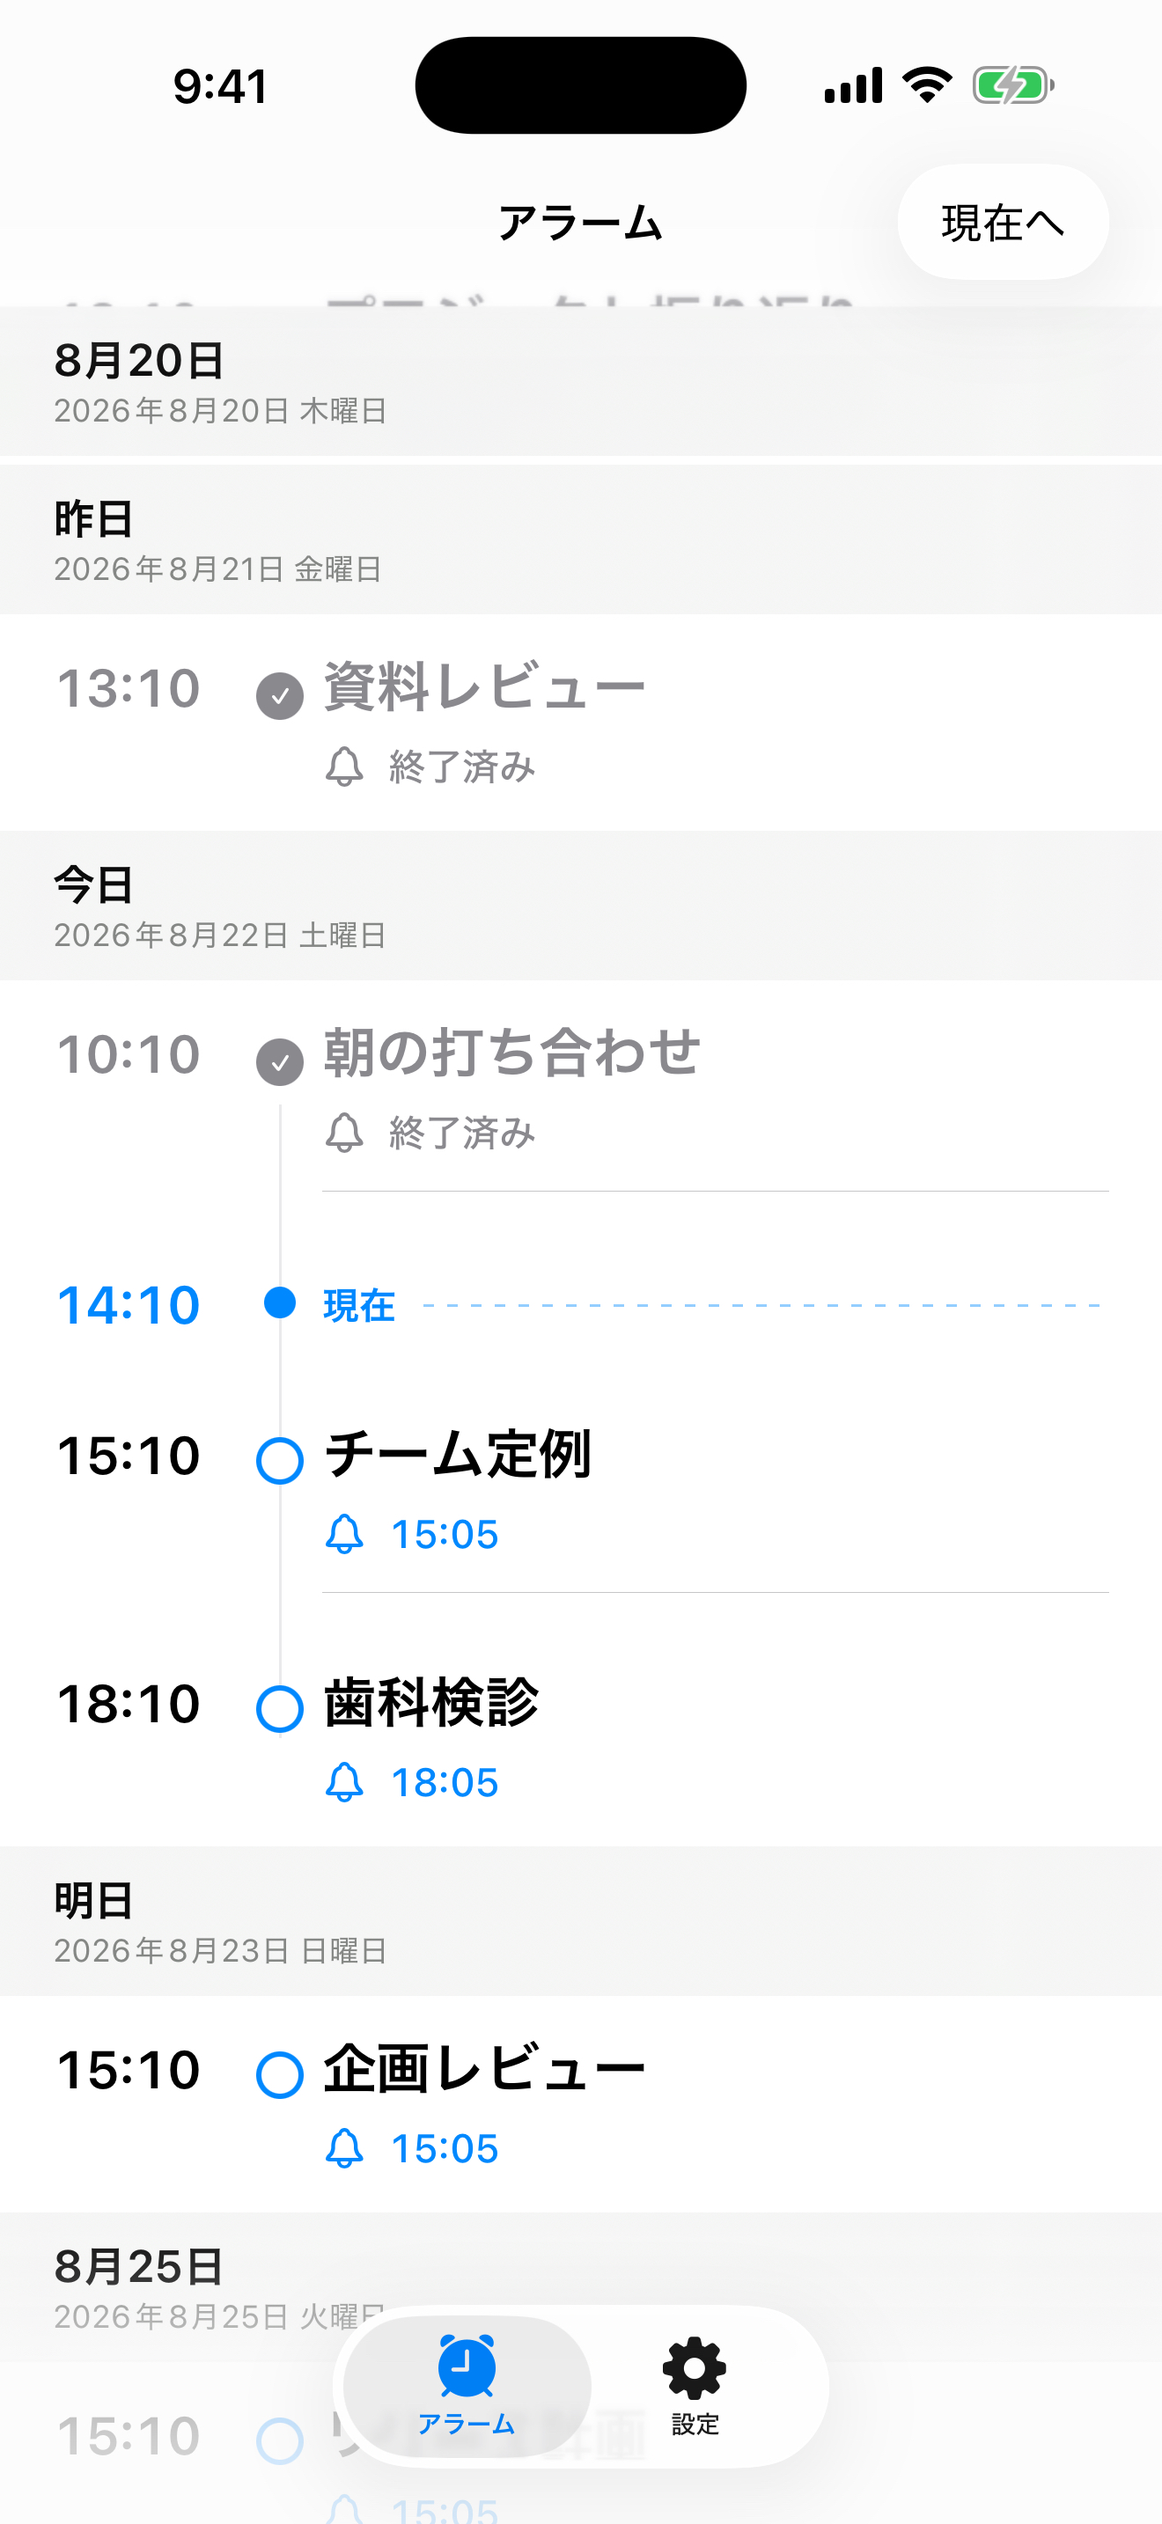
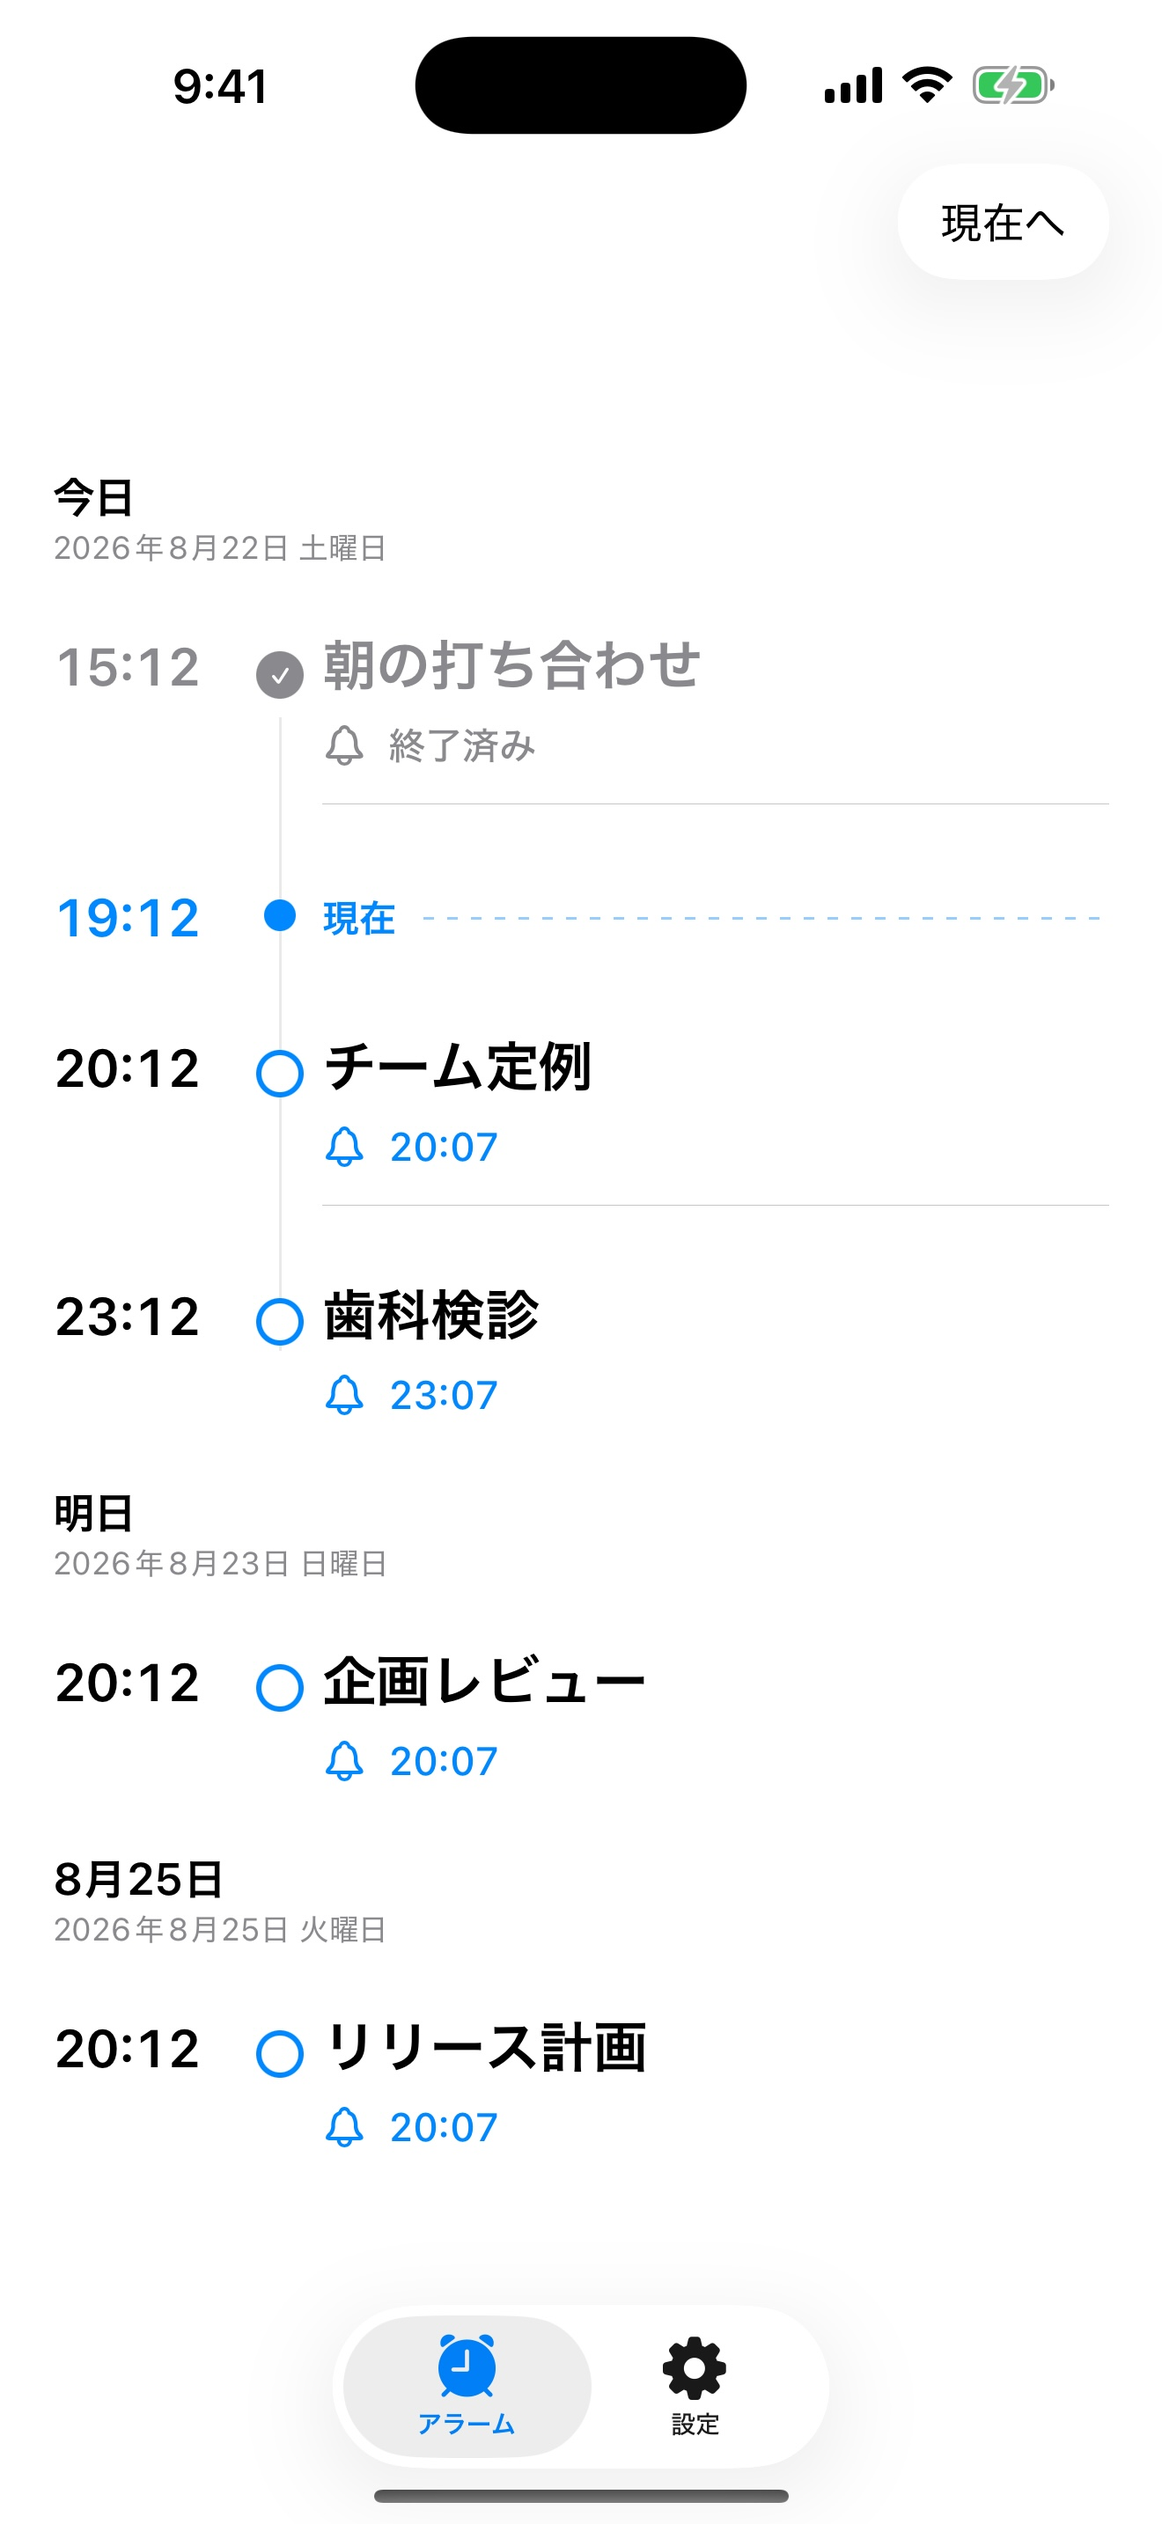
Capture final App Store screenshots

diff --git a/docs/evidence/WU-10/PHASE_B_4_FINAL_SCREENSHOTS.md b/docs/evidence/WU-10/PHASE_B_4_FINAL_SCREENSHOTS.md
@@ -1,0 +1,58 @@
+# WU-10 Phase B.4 — Final App Store Screenshots
+
+Audit date: 2026-08-22.
+
+## Candidate and capture environment
+
+1. Branch: `wu-10-release-gate`.
+2. Accepted UI candidate: `50fc6258384f0ac80cc88661132dbec1a7bca2da`.
+3. Simulator: iPhone 17 Pro Max (`F9006C43-A464-4C67-9B9E-D564B1975BC6`).
+4. Runtime: iOS 26.5.
+5. Language/locale: Japanese / `ja_JP`.
+6. Appearance/text size: Light / standard Large.
+7. Build: one Debug Simulator build from the exact accepted UI candidate. DEBUG-only allowlisted scenarios supplied deterministic presentation data; no debug/test/sample labels are visible.
+
+## Final package
+
+Location: `docs/release/screenshots/final-ja/`. Count: exactly six raw screenshots.
+
+| Order | File | Screen | Dimensions / format | SHA-256 |
+|---|---|---|---|---|
[6 lines of base64/hex data omitted]
+
+`file` and `sips` independently confirmed baseline JPEG, 1320×2868 portrait dimensions, RGB color, three components, and no alpha for all six images. Hash uniqueness confirms there are no duplicate files. Visual inspection confirmed no accidental crop, clipping, Simulator window chrome, marketing decoration, debug artifacts, or empty/awkward composition.
+
+## Visual and privacy audit
+
+- `01` immediately presents the core Today-first alarm timeline, selected Alarm tab, an ended earlier-today event, actual current-time divider, two upcoming-today events and readable alarm times.
+- `02` presents the same generic `チーム定例` event with alarm enabled and the default five-minute lead state.
+- `03` presents that event with alarm enabled and a distinct 15-minute per-event override.
+- `04` expands the same synchronized timeline to Today, Tomorrow, and August 25; it contains no yesterday or older section.
+- `05` shows synthetic `仕事` and `プライベート` calendars under device calendar sources with clear selection controls. The display does not imply direct provider API integration.
+- `06` shows default lead time, calendar selection entry, current permission states, and local/read-only product explanation.
+- All event, calendar, and source content is deterministic synthetic data. No real events, locations, personal account names, email addresses, phone numbers, secrets, or private identifiers appear.
+
+## Timeline and sticky-header confirmation
+
+The final timeline images begin with Today and contain only Today/future dates. Earlier-today content remains visible, upcoming content follows the real current-time divider, and no historical section was manufactured. A separate Accessibility Dynamic Type QA launch forced the real `LazyVStack` header into its pinned state: the date header and navigation transition region remained opaque, with no content bleed, transparent/translucent gap, seam, flash, or vertical jump. That QA image is temporary and is not part of the App Store package.
+
+## Source freeze and repository status
+
+- Production Swift/Xcode project/configuration diff: **NONE**.
+- Changed content is limited to the six final screenshots and release/evidence documentation.
+- Screenshot/evidence commit: the single commit containing this document; exact SHA is recorded in the final handoff because a commit cannot embed its own hash.
+- Working tree: clean after that commit.
+- Push: not performed.
+- Merge: not performed.
+- Tag: not performed.
+- Distribution archive/IPA regeneration: not performed. The B.2 IPA remains stale.
+- Upload: not performed.
+- Submission: not performed.
+
+**FINAL APP STORE SCREENSHOTS CAPTURED**  
+**OWNER VISUAL APPROVAL PENDING**

diff --git a/docs/PROJECT_STATE.md b/docs/PROJECT_STATE.md
@@ -1,13 +1,13 @@
 # Project State
 
-- Phase: **WU-10 Release Gate — Phase B.3**
-- Current Work: **Final Timeline UI Polish Before App Store Screenshot Capture**
-- Status: **TIMELINE POLISH VALIDATED / READY FOR APP STORE SCREENSHOT CAPTURE**
+- Phase: **WU-10 Release Gate — Phase B.4**
+- Current Work: **Final App Store Screenshot Capture**
+- Status: **FINAL APP STORE SCREENSHOTS CAPTURED / OWNER VISUAL APPROVAL PENDING**
 - Automated Gate: **PASS**
 - Human Gate: **DEFERRED BY OWNER TO POST-REVIEW / PRE-RELEASE VALIDATION — NOT PASS**
 - Submission: **NOT STARTED**
 - Main Merge: **NOT STARTED**
-- Phase B: **B.3 COMPLETE**
+- Phase B: **B.4 COMPLETE**
 - Production Brand: **AgendaCue — OWNER APPROVED / INTEGRATED**
 - Customer Display Name: **AgendaCue**
 - Production Bundle ID: **`com.naoki-ko.agendacue` — OWNER APPROVED / INTEGRATED**
@@ -46,6 +46,7 @@ Environment: Xcode 26.6 (17F113), iOS SDK 26.5, iOS 26.5 Simulators.
 - Phase B.1 verification: Calendar-first onboarding; authoritative post-request Calendar/Alarm state refresh; immediate Calendar data reload; 164/164 tests; required Debug/Release builds; Production Release launch and Simulator visual QA.
[1 lines of base64/hex data omitted]
 - Phase B.3 verification: visible Alarm timeline begins at local `Calendar.startOfDay(for: now)` while the independent 14-day historical EventKit fetch overlap remains unchanged; sticky date headers and navigation background are opaque system surfaces. XCTest 167/167, required Debug/Release builds, and light/dark pinned-header Simulator QA passed.
+- Phase B.4 verification: six fresh Japanese Light-appearance screenshots captured from UI candidate `50fc6258384f0ac80cc88661132dbec1a7bca2da` on iPhone 17 Pro Max Simulator, iOS 26.5. Every image is 1320×2868 JPEG, RGB/no-alpha; visual, privacy, uniqueness, Today-first timeline, and opaque pinned-header checks passed. Owner visual approval remains pending.
 - Japanese residual audit: app-owned primary UI, permission guidance, state copy, accessibility labels, and purpose strings are Japanese. Product/system names and source-provided calendar/event/source content remain unchanged.
 - Scope audit: scheduling dates/identities/lifecycle, reconciliation, background semantics, domain rules, calendar write prohibition, timeline, settings, persistence schema, and event-detail business behavior are unchanged. Phase A changes are release configuration hygiene, privacy manifest, Japanese stop copy, a narrow Sendable fix, and documentation/evidence.
 
@@ -59,7 +60,7 @@ Accessibility Inspector, real VoiceOver, real-device permissions/EventKit/AlarmK
 
 - Post-review / pre-release physical execution and evidence for H01–H46, followed by final owner public-release GO / NO-GO.
 - Explicit authorization for any later App Store Connect upload or App Review submission.
-- Final App Store screenshot capture and a fresh post-UI-freeze Distribution archive/IPA.
+- Owner visual approval of the final App Store screenshot package, followed by a fresh post-UI-freeze Distribution archive/IPA.
 
 ## Release blockers
 

diff --git a/docs/release/SCREENSHOT_PLAN.md b/docs/release/SCREENSHOT_PLAN.md
@@ -1,6 +1,6 @@
 # AgendaCue Japanese App Store Screenshot Plan
 
-The Phase A.5 source set was captured on an iPhone 17 Pro Max Simulator, iOS 26.5, Japanese UI, Light appearance, default text size. Files are 1320×2868 portrait JPEG, RGB/no-alpha, matching Apple's [6.9-inch screenshot specification](https://developer.apple.com/help/app-store-connect/reference/app-information/screenshot-specifications/). The target is iPhone-only (`TARGETED_DEVICE_FAMILY = 1`), so no iPad source set is required by the current target configuration. Timeline images from that set are superseded by the Phase B.3 today-first UI and must be recaptured after the B.3 UI freeze. Do not fabricate system permission or AlarmKit UI.
+The final Phase B.4 package was captured on an iPhone 17 Pro Max Simulator, iOS 26.5, Japanese UI, Light appearance, standard Large text size, from accepted UI candidate `50fc6258384f0ac80cc88661132dbec1a7bca2da`. Files are 1320×2868 portrait JPEG, RGB/no-alpha, matching Apple's [6.9-inch screenshot specification](https://developer.apple.com/help/app-store-connect/reference/app-information/screenshot-specifications/). The target is iPhone-only (`TARGETED_DEVICE_FAMILY = 1`), so no iPad source set is required by the current target configuration. Do not fabricate system permission or AlarmKit UI.
 
 1. **現在と次の予定** — `アラーム` timeline centered on the current divider and first future alarm. Caption candidate: `次の予定とアラーム時刻をひと目で`.
 2. **複数日の予定** — today/future date sections. Caption: `今日から今後14日まで、日付ごとに確認`.
@@ -12,7 +12,7 @@ The Phase A.5 source set was captured on an iPhone 17 Pro Max Simulator, iOS 26.
 
 Use `AgendaCue` consistently anywhere the installed app name is visible. Avoid debug/feasibility controls, internal IDs, permission error screens as hero images, private calendar content, fake system dialogs, fake AlarmKit presentation, guaranteed-delivery language, and direct-provider claims. The raw Phase A.5 files contain no baked marketing text. Final ordering/copy and App Store Connect acceptance remain owner decisions.
 
-## Phase A.7A package — partially superseded by B.3
+## Phase B.4 final package — owner visual approval pending
 
 Six raw captures were finalized without recompression or marketing overlays:
 
@@ -23,4 +23,4 @@ Six raw captures were finalized without recompression or marketing overlays:
 5. `05_calendar_selection.jpg` → `final-ja/05.jpg`
 6. `06_settings.jpg` → `final-ja/06.jpg`
 
-All are 1320×2868 portrait JPEG, RGB/no-alpha, and byte-identical to the visually inspected sources. The timeline-visible images (`final-ja/01.jpg` and `final-ja/04.jpg`) are no longer final after B.3 and must be replaced during the next capture phase. `07_onboarding.jpg` is also stale because B.1 removed the Welcome stage. The unaffected operational-screen sources remain reference material until the complete final package is recaptured and approved.
+All six files under `screenshots/final-ja/` are fresh B.4 captures from the same build/device/language/appearance and are 1320×2868 portrait JPEG, RGB/no-alpha. Their exact SHA-256 values and validation evidence are recorded in `../evidence/WU-10/PHASE_B_4_FINAL_SCREENSHOTS.md`. The older `screenshots/ja/` files remain historical source evidence only. Owner visual approval of the final B.4 package is pending.

diff --git a/docs/REVIEW_LOG.md b/docs/REVIEW_LOG.md
@@ -28,6 +28,7 @@ Reviews and evidence are commit-specific. Never reuse approval after the reviewe
 | 2026-08-22 | WU-10 Phase B.1 | `wu-10-release-gate` | Final Phase B.1 commit reported at handoff | Codex automated/Simulator gate only | XCTest 164/164; specific iPhone 17 Pro Simulator Debug; generic Simulator Release; unsigned Device Release; Production Release launch; Calendar-first, Alarm, and denial visual QA | **DEFERRED BY OWNER TO POST-REVIEW / PRE-RELEASE — NOT PASS** | Post-A.7B release-candidate delta fixes authoritative post-request permission refresh and removes Welcome stage. No physical gate, push, merge, upload, or submission. Manual release preferred. |
 | 2026-08-22 | WU-10 Phase B.2 | `wu-10-release-gate` | Docs-only evidence commit reported at handoff; Production candidate `4027062ce519ab15f0274417d7d65d54133097ae` | Codex packaging audit only | Fresh Release archive and App Store export; Apple Distribution/team/profile/identity/entitlements/strict codesign/privacy/resources/leakage PASS; B.1 regression 164/164 referenced | **DEFERRED BY OWNER TO POST-REVIEW / PRE-RELEASE — NOT PASS** | Fresh IPA validated locally; upload/submission authorization pending. No Production/project change, push, merge, tag, upload, or submission. |
 | 2026-08-22 | WU-10 Phase B.3 | `wu-10-release-gate` | Final Phase B.3 commit reported at handoff | Codex automated/Simulator gate only | XCTest 167/167; specific iPhone 17 Pro Simulator Debug; generic Simulator Release; unsigned Device Release; normal and Accessibility Dynamic Type light/dark timeline/pinned-header QA | **DEFERRED BY OWNER TO POST-REVIEW / PRE-RELEASE — NOT PASS** | Visible timeline is today-first and sticky header/top region is opaque. Scheduling/reconciliation and fetch overlap unchanged. Prior screenshots/IPA stale where applicable; no push, merge, tag, upload, or submission. |
+| 2026-08-22 | WU-10 Phase B.4 | `wu-10-release-gate` | Final Phase B.4 commit reported at handoff; UI candidate `50fc6258384f0ac80cc88661132dbec1a7bca2da` | Codex Simulator screenshot audit only | Six fresh Japanese Light screenshots; 1320×2868 JPEG/RGB/no-alpha; visual sequence, uniqueness, privacy, Today-first timeline, and pinned-header recheck passed | **OWNER VISUAL APPROVAL PENDING — NOT PASS** | Screenshot/docs only; Production source/project unchanged. B.2 IPA remains stale. No push, merge, tag, upload, or submission. |
 
 ## Entry requirements
 

diff --git a/docs/release/APP_STORE_RELEASE_CHECKLIST.md b/docs/release/APP_STORE_RELEASE_CHECKLIST.md
@@ -1,6 +1,6 @@
 # AgendaCue App Store Release Checklist
 
-Status is evidence-based as of WU-10 Phase B.3. `READY` is not an App Store approval or Human Gate PASS.
+Status is evidence-based as of WU-10 Phase B.4. `READY` is not an App Store approval or Human Gate PASS.
 
 | Item | Status | Evidence / next action |
 |---|---|---|
@@ -20,7 +20,7 @@ Status is evidence-based as of WU-10 Phase B.3. `READY` is not an App Store appr
 | Informational Support page | PASS — PUBLIC / VERIFIED | `https://naoki-ko.github.io/agendacue-site/support/` |
 | App Store Support URL compliance | OWNER-ACCEPTED WITH REVIEW RISK | Use `https://naoki-ko.github.io/agendacue-site/privacy/`, the same URL as Privacy Policy. No public personal contact information. Owner accepts the known App Review risk; handle any rejection only from actual reviewer feedback. Not a full-compliance PASS or internal blocker. |
 | Japanese screenshot sources | PASS | 7 visually inspected JPEG sources, 1320×2868, RGB/no-alpha |
-| Final Japanese screenshot package | SUPERSEDED WHERE TIMELINE IS VISIBLE | Capture a fresh final set after B.3 UI freeze; do not use the old timeline images as final |
+| Final Japanese screenshot package | CAPTURED / OWNER VISUAL APPROVAL PENDING | Six fresh B.4 captures from UI candidate `50fc625…`; 1320×2868 JPEG/RGB/no-alpha; technical, privacy, and visual sequence audit passed |
 | Distribution signing | PREVIOUSLY VALIDATED / B.2 ARTIFACT STALE | Cloud signing configuration remains unchanged; regenerate after screenshot capture/UI freeze |
 | App Store export validation | STALE AFTER B.3 | B.2 IPA SHA-256 `cc2d1666…` predates the B.3 Production UI change and must not be uploaded |
 | H01–H46 | DEFERRED — POST-REVIEW / PRE-RELEASE OWNER VALIDATION | No item passed by Simulator evidence; not an App Review submission blocker under explicit owner policy |

diff --git a/docs/START_HERE.md b/docs/START_HERE.md
@@ -1,6 +1,6 @@
 # Start Here
 
-AgendaCue is at WU-10 Release Gate Phase B.3. The Alarm timeline now presents today through future dates and its sticky date-header region is opaque and visually stable. H01–H46 are deferred by explicit owner policy to post-review / pre-release validation; no Human Gate item is marked passed.
+AgendaCue is at WU-10 Release Gate Phase B.4. The final six-image Japanese App Store screenshot package has been freshly captured from the accepted B.3 UI candidate and is pending owner visual approval. H01–H46 are deferred by explicit owner policy to post-review / pre-release validation; no Human Gate item is marked passed.
 
 ## Reading order
 
@@ -15,7 +15,7 @@ AgendaCue is at WU-10 Release Gate Phase B.3. The Alarm timeline now presents to
 
 ## Current stop line
 
-WU-10 Phase B.3 stops ready for final App Store screenshot capture. The B.2 IPA is stale after this Production UI change and must not be uploaded. Do not push, merge, tag, upload, submit, or publicly release.
+WU-10 Phase B.4 stops with final screenshots captured and owner visual approval pending. The B.2 IPA remains stale and must not be uploaded; regenerate Distribution only after screenshot approval/UI freeze. Do not push, merge, tag, upload, submit, or publicly release.
 
 ## Product invariants
 

diff --git a/docs/evidence/WU-10/README.md b/docs/evidence/WU-10/README.md
@@ -20,6 +20,8 @@
 
 > The today-first Alarm timeline, opaque sticky-header region, regression/build results, Simulator QA, screenshot readiness, and stale B.2 IPA status are recorded in `PHASE_B_3_TIMELINE_POLISH.md`.
 
+> The fresh six-image Japanese App Store screenshot package, image hashes, technical validation, privacy audit, and owner-approval stop are recorded in `PHASE_B_4_FINAL_SCREENSHOTS.md`.
+
 Audit date: 2026-08-20. Parent: `2f32f35926e13b35fc78698b16c1dccd757c0504`. Environment: Xcode 26.6 (17F113), iOS SDK/Simulator 26.5, iPhone 17 Pro Simulator.
 
 ## Automated result
